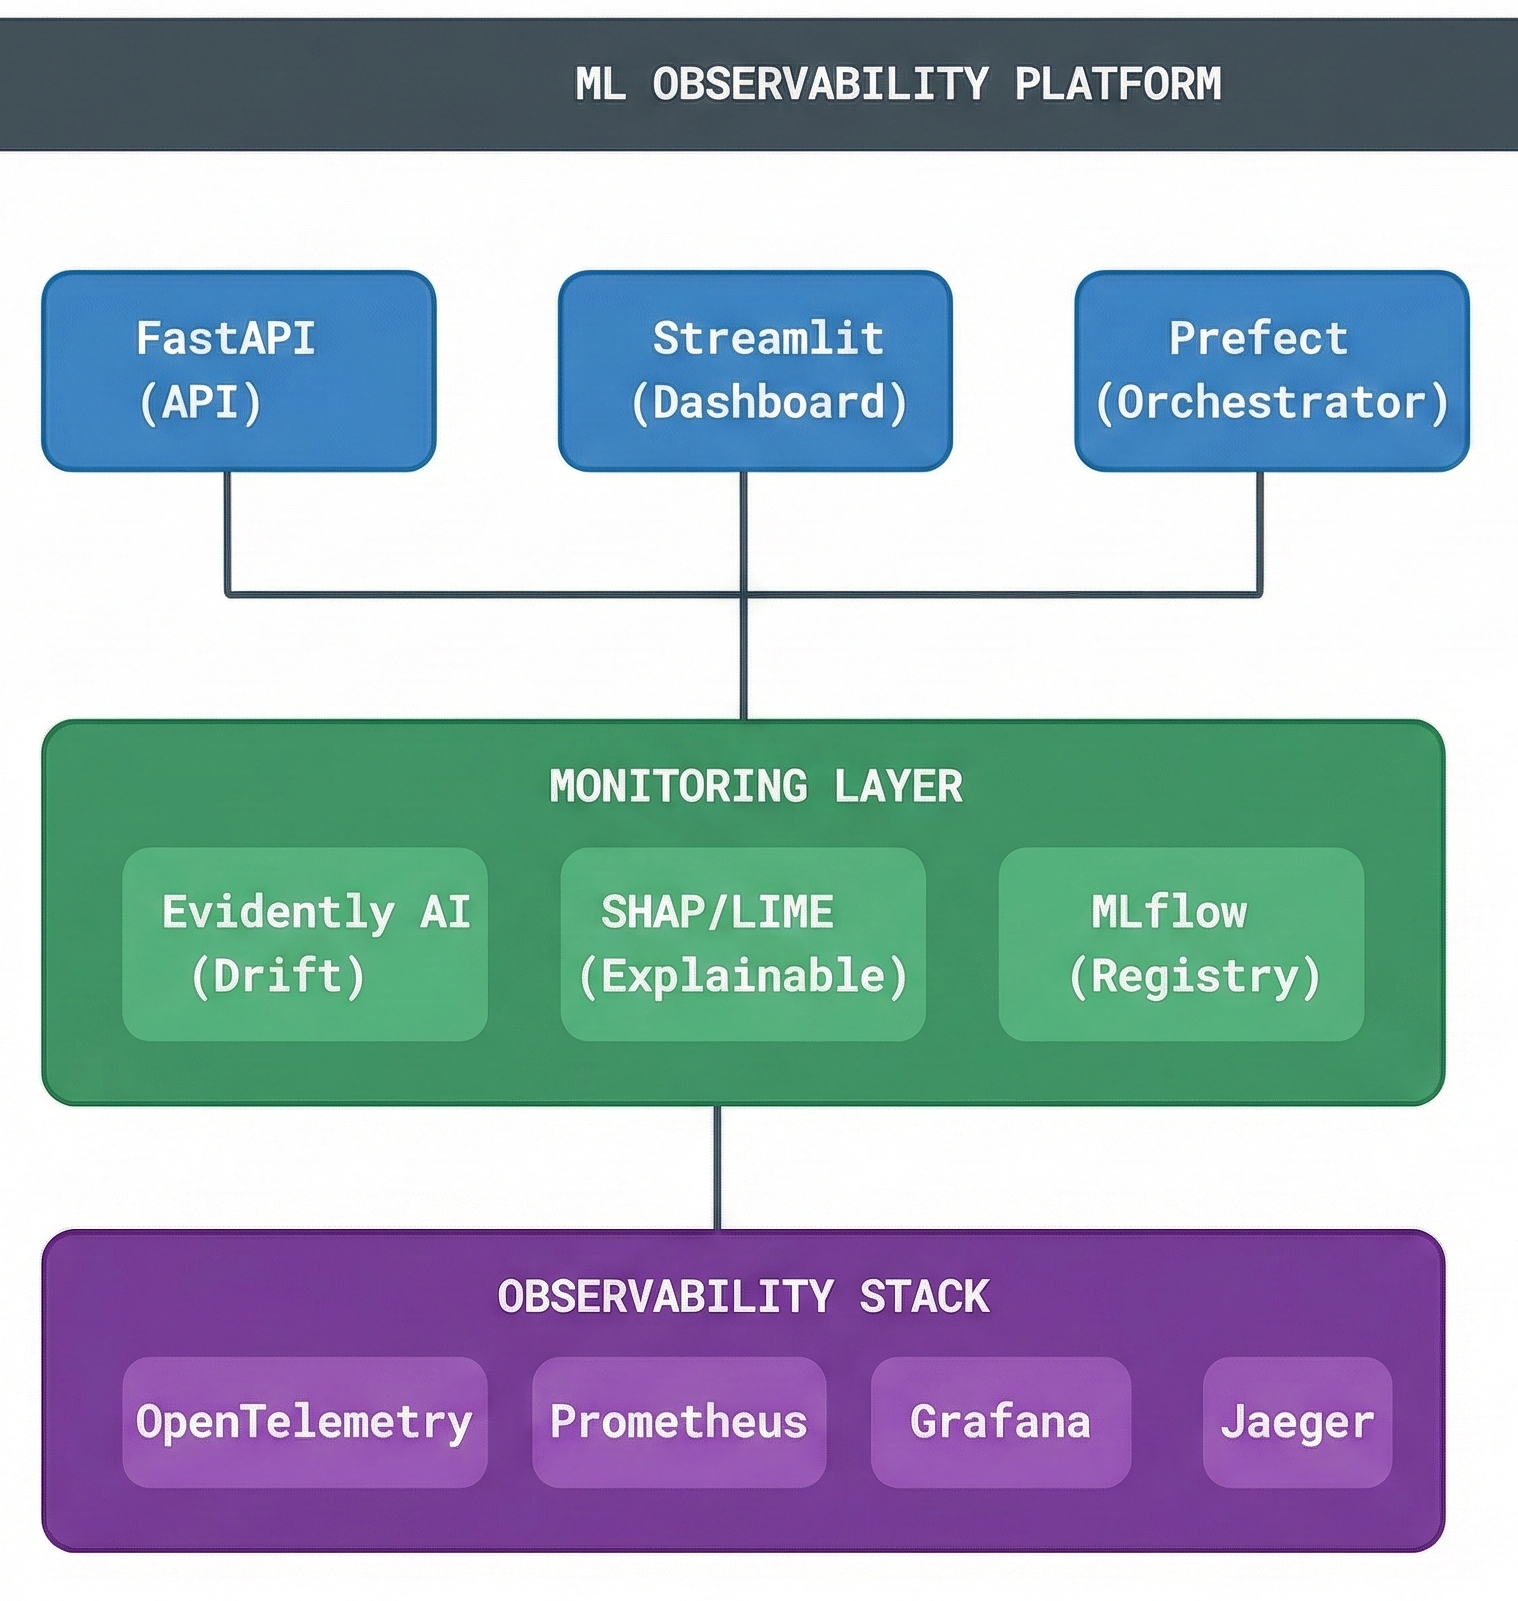
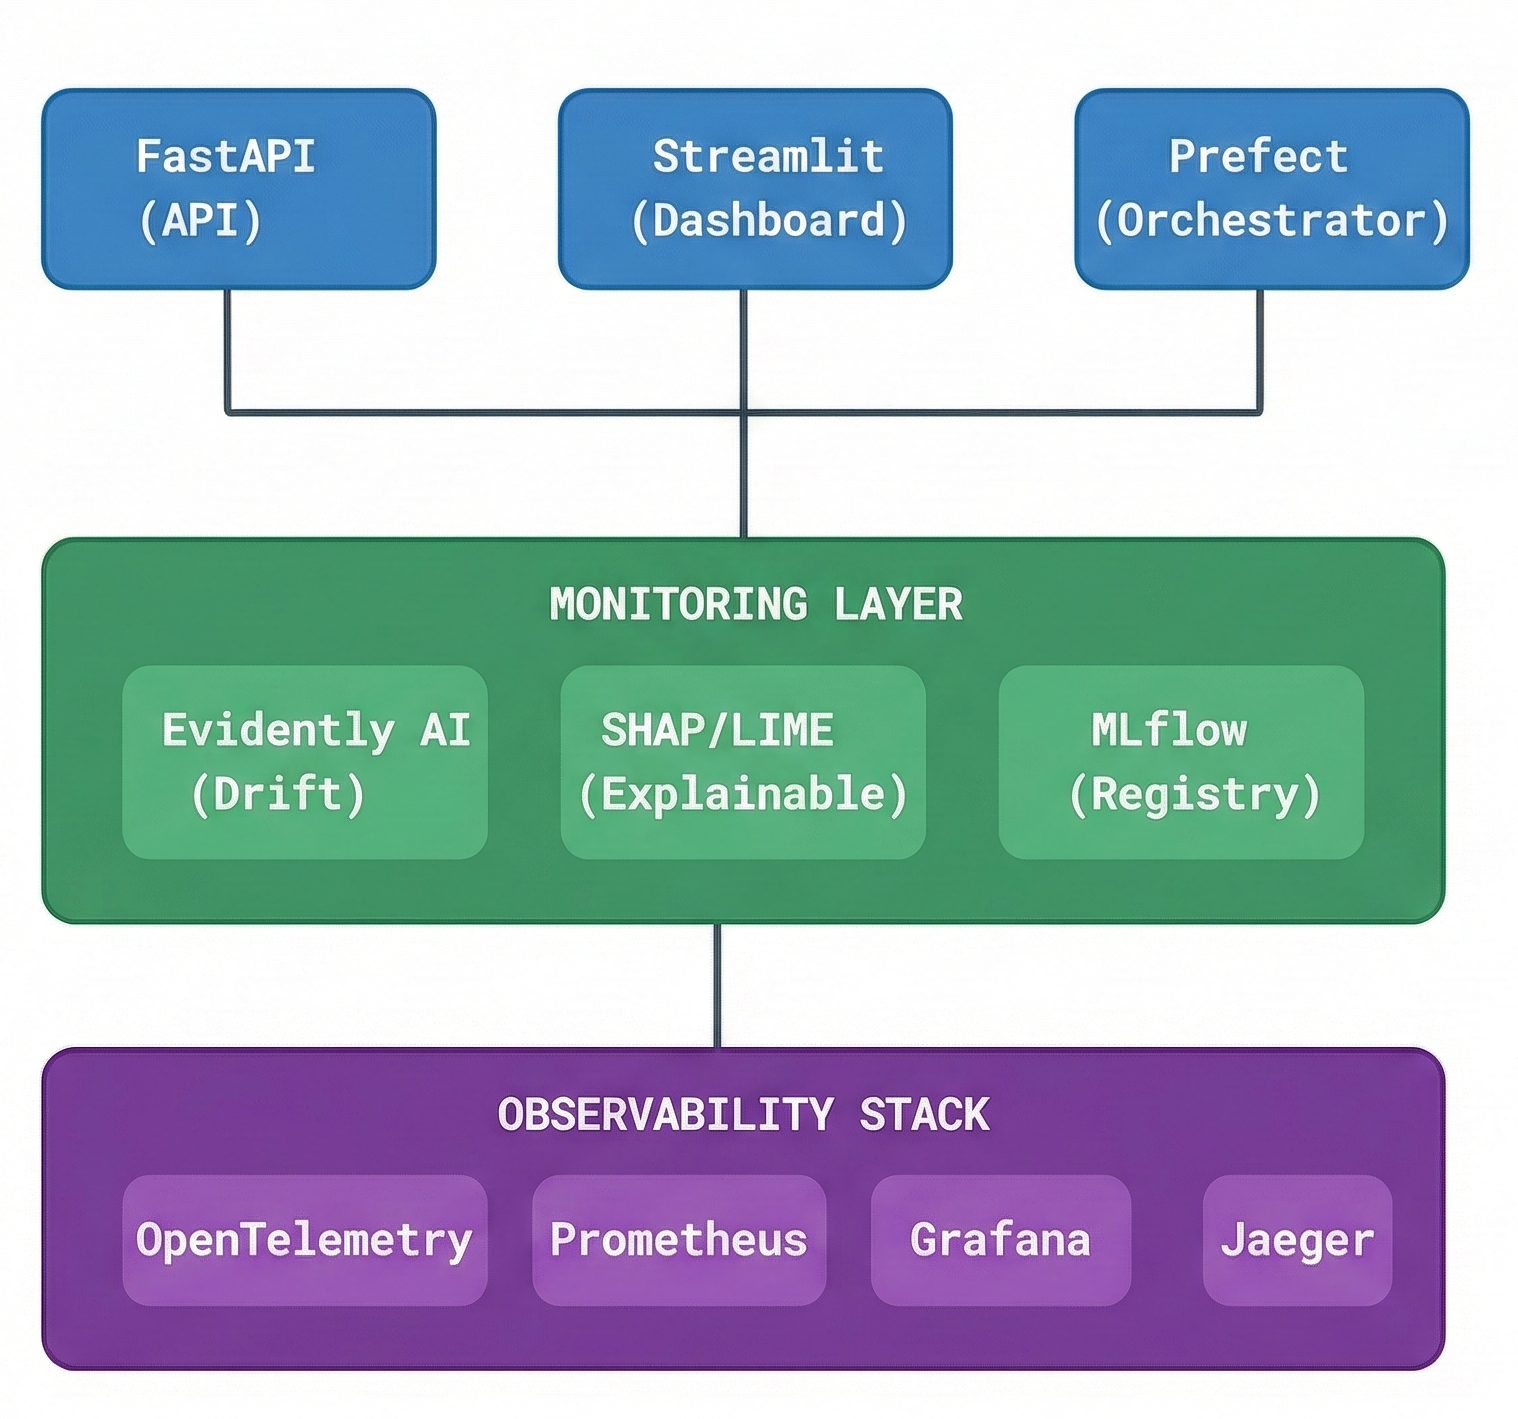
updated architecture img

diff --git a/README.md b/README.md
@@ -9,7 +9,9 @@ A production-grade **ML Monitoring and Observability Platform** that provides co
 
 ## 🏗 Architecture
 
-![Architecture Overview](assets/images/Project_architecture.png)
+<p align="center">
+  <img src="assets/images/Project_architecture.png" alt="Architecture Overview" width="80%"/>
+</p>
 
 ---
 
